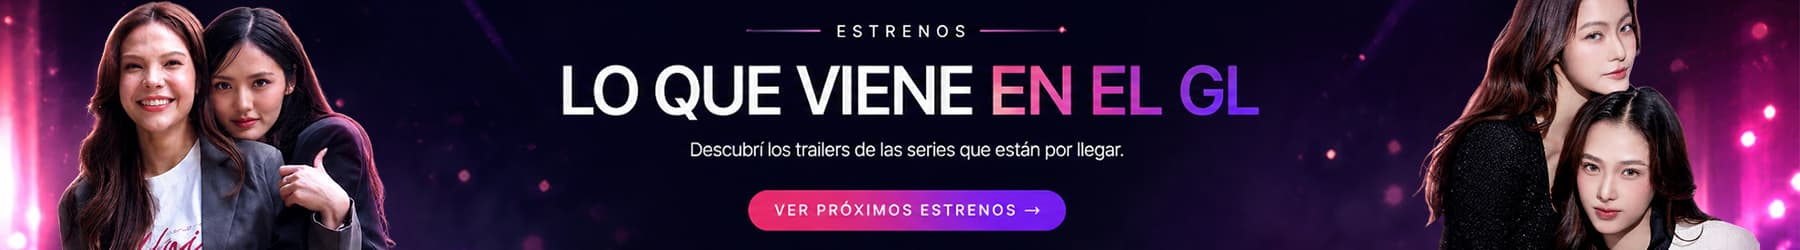
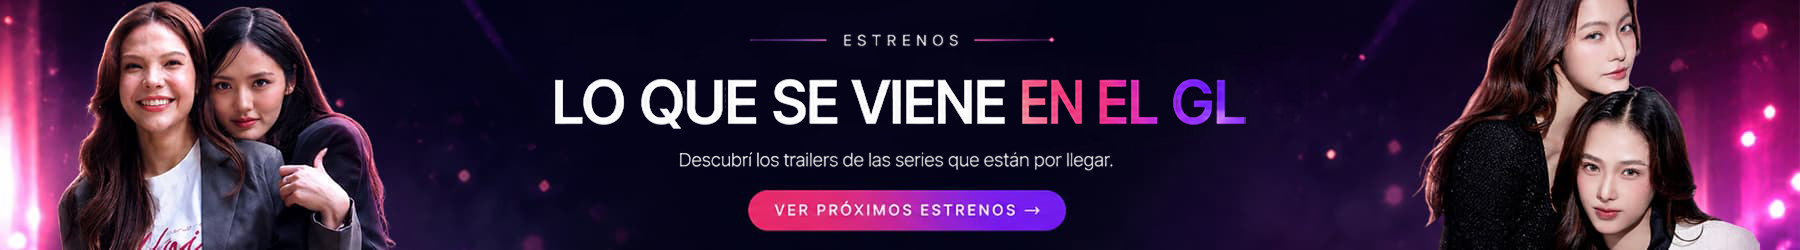
5

diff --git a/minijuegos-gl.html b/minijuegos-gl.html
@@ -39,6 +39,18 @@
     />
     <meta property="og:type" content="website" />
     <link rel="stylesheet" href="styles.css" />
+    <!-- 🇦🇷 Estilo para la banderita del footer -->
+    <style>
+      .footer-flag {
+        display: inline-block;
+        width: 18px;
+        height: 12px;
+        vertical-align: middle;
+        border-radius: 2px;
+        box-shadow: 0 0 0 1px rgba(255, 255, 255, 0.2);
+        margin: 0 2px;
+      }
+    </style>
     <link rel="icon" type="image/png" href="/img/favicon.png" />
     <style>
       html,
@@ -417,7 +429,56 @@
         </div>
       </div>
       <div class="footer-bottom">
-        <p>© 2026 Girls Love - Todos los derechos reservados</p>
+        <p>
+          © 2026 Girls Love Play - Argentina
+          <svg
+            class="footer-flag"
+            viewBox="0 0 60 40"
+            xmlns="http://www.w3.org/2000/svg"
+            aria-label="Bandera de Argentina"
+            role="img"
+          >
+            <rect width="60" height="40" fill="#fff" />
+            <rect width="60" height="13.33" fill="#75AADB" />
+            <rect y="26.67" width="60" height="13.33" fill="#75AADB" />
+            <g transform="translate(30,20)">
+              <circle
+                r="4.6"
+                fill="#FFCC33"
+                stroke="#85340A"
+                stroke-width="0.5"
+              />
+              <g fill="#FFCC33" stroke="#85340A" stroke-width="0.4">
+                <g id="footer-rayo-mini">
+                  <polygon points="0,-8.5 -0.9,-5.3 0.9,-5.3" />
+                </g>
+                <use href="#footer-rayo-mini" transform="rotate(45)" />
+                <use href="#footer-rayo-mini" transform="rotate(90)" />
+                <use href="#footer-rayo-mini" transform="rotate(135)" />
+                <use href="#footer-rayo-mini" transform="rotate(180)" />
+                <use href="#footer-rayo-mini" transform="rotate(225)" />
+                <use href="#footer-rayo-mini" transform="rotate(270)" />
+                <use href="#footer-rayo-mini" transform="rotate(315)" />
+              </g>
+              <circle
+                r="3.2"
+                fill="#FFCC33"
+                stroke="#85340A"
+                stroke-width="0.4"
+              />
+              <circle cx="-1.1" cy="-0.3" r="0.35" fill="#85340A" />
+              <circle cx="1.1" cy="-0.3" r="0.35" fill="#85340A" />
+              <path
+                d="M -1.1 1 Q 0 1.9 1.1 1"
+                stroke="#85340A"
+                stroke-width="0.35"
+                fill="none"
+                stroke-linecap="round"
+              />
+            </g>
+          </svg>
+          - Todos los derechos reservados
+        </p>
       </div>
     </footer>
 

diff --git a/ships-gl.html b/ships-gl.html
@@ -41,6 +41,18 @@
     <meta property="og:type" content="website" />
 
     <link rel="stylesheet" href="styles.css" />
+    <!-- 🇦🇷 Estilo para la banderita del footer -->
+    <style>
+      .footer-flag {
+        display: inline-block;
+        width: 18px;
+        height: 12px;
+        vertical-align: middle;
+        border-radius: 2px;
+        box-shadow: 0 0 0 1px rgba(255, 255, 255, 0.2);
+        margin: 0 2px;
+      }
+    </style>
     <link rel="stylesheet" href="ships-gl.css" />
     <link rel="icon" type="image/png" href="/img/favicon.png" />
     <style>
@@ -286,7 +298,34 @@
         </div>
       </div>
       <div class="footer-bottom">
-        <p>© 2026 Girls Love - Todos los derechos reservados</p>
+        <p>
+          © 2026 Girls Love Play - Argentina
+          <svg class="footer-flag" viewBox="0 0 60 40" xmlns="http://www.w3.org/2000/svg" aria-label="Bandera de Argentina" role="img">
+            <rect width="60" height="40" fill="#fff" />
+            <rect width="60" height="13.33" fill="#75AADB" />
+            <rect y="26.67" width="60" height="13.33" fill="#75AADB" />
+            <g transform="translate(30,20)">
+              <circle r="4.6" fill="#FFCC33" stroke="#85340A" stroke-width="0.5" />
+              <g fill="#FFCC33" stroke="#85340A" stroke-width="0.4">
+                <g id="footer-rayo-ships">
+                  <polygon points="0,-8.5 -0.9,-5.3 0.9,-5.3" />
+                </g>
+                <use href="#footer-rayo-ships" transform="rotate(45)" />
+                <use href="#footer-rayo-ships" transform="rotate(90)" />
+                <use href="#footer-rayo-ships" transform="rotate(135)" />
+                <use href="#footer-rayo-ships" transform="rotate(180)" />
+                <use href="#footer-rayo-ships" transform="rotate(225)" />
+                <use href="#footer-rayo-ships" transform="rotate(270)" />
+                <use href="#footer-rayo-ships" transform="rotate(315)" />
+              </g>
+              <circle r="3.2" fill="#FFCC33" stroke="#85340A" stroke-width="0.4" />
+              <circle cx="-1.1" cy="-0.3" r="0.35" fill="#85340A" />
+              <circle cx="1.1" cy="-0.3" r="0.35" fill="#85340A" />
+              <path d="M -1.1 1 Q 0 1.9 1.1 1" stroke="#85340A" stroke-width="0.35" fill="none" stroke-linecap="round" />
+            </g>
+          </svg>
+          - Todos los derechos reservados
+        </p>
       </div>
     </footer>
 

diff --git a/mundo-gl.html b/mundo-gl.html
@@ -28,6 +28,18 @@
   <meta property="og:url" content="https://girlsloveplay.com/mundo-gl.html" />
 
   <link rel="stylesheet" href="styles.css" />
+  <!-- 🇦🇷 Estilo para la banderita del footer -->
+  <style>
+    .footer-flag {
+      display: inline-block;
+      width: 18px;
+      height: 12px;
+      vertical-align: middle;
+      border-radius: 2px;
+      box-shadow: 0 0 0 1px rgba(255, 255, 255, 0.2);
+      margin: 0 2px;
+    }
+  </style>
   <link rel="icon" type="image/png" href="/img/favicon.png" />
 </head>
 <body>
@@ -142,7 +154,34 @@
       </div>
     </div>
     <div class="footer-bottom">
-      <p>© 2026 Girls Love - Todos los derechos reservados</p>
+      <p>
+        © 2026 Girls Love Play - Argentina
+        <svg class="footer-flag" viewBox="0 0 60 40" xmlns="http://www.w3.org/2000/svg" aria-label="Bandera de Argentina" role="img">
+          <rect width="60" height="40" fill="#fff" />
+          <rect width="60" height="13.33" fill="#75AADB" />
+          <rect y="26.67" width="60" height="13.33" fill="#75AADB" />
+          <g transform="translate(30,20)">
+            <circle r="4.6" fill="#FFCC33" stroke="#85340A" stroke-width="0.5" />
+            <g fill="#FFCC33" stroke="#85340A" stroke-width="0.4">
+              <g id="footer-rayo-mundo">
+                <polygon points="0,-8.5 -0.9,-5.3 0.9,-5.3" />
+              </g>
+              <use href="#footer-rayo-mundo" transform="rotate(45)" />
+              <use href="#footer-rayo-mundo" transform="rotate(90)" />
+              <use href="#footer-rayo-mundo" transform="rotate(135)" />
+              <use href="#footer-rayo-mundo" transform="rotate(180)" />
+              <use href="#footer-rayo-mundo" transform="rotate(225)" />
+              <use href="#footer-rayo-mundo" transform="rotate(270)" />
+              <use href="#footer-rayo-mundo" transform="rotate(315)" />
+            </g>
+            <circle r="3.2" fill="#FFCC33" stroke="#85340A" stroke-width="0.4" />
+            <circle cx="-1.1" cy="-0.3" r="0.35" fill="#85340A" />
+            <circle cx="1.1" cy="-0.3" r="0.35" fill="#85340A" />
+            <path d="M -1.1 1 Q 0 1.9 1.1 1" stroke="#85340A" stroke-width="0.35" fill="none" stroke-linecap="round" />
+          </g>
+        </svg>
+        - Todos los derechos reservados
+      </p>
     </div>
   </footer>
 
